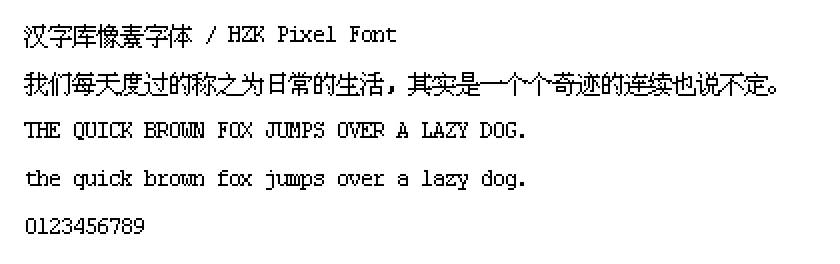
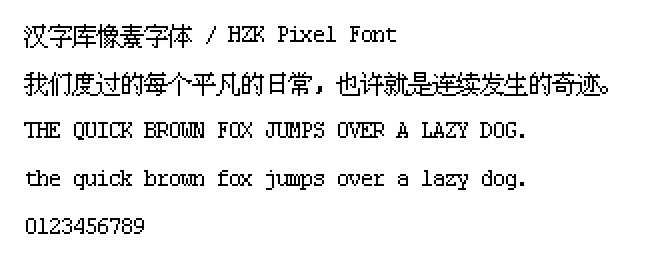
调整示例文案

diff --git a/services/image_service.py b/services/image_service.py
@@ -13,10 +13,10 @@ def make_preview_image_file(font_config: FontConfig):
     font = ImageFont.truetype(os.path.join(path_define.outputs_dir, f'{font_config.outputs_name}.woff2'), font_config.size)
     text_color = (0, 0, 0, 255)
 
-    image = Image.new('RGBA', (font_config.size * 35, font_config.size * 11), (255, 255, 255, 255))
+    image = Image.new('RGBA', (font_config.size * 27, font_config.size * 11), (255, 255, 255, 255))
     draw = ImageDraw.Draw(image)
     draw.text((font_config.size, font_config.size), '汉字库像素字体 / HZK Pixel Font', fill=text_color, font=font)
-    draw.text((font_config.size, font_config.size * 3), '我们每天度过的称之为日常的生活，其实是一个个奇迹的连续也说不定。', fill=text_color, font=font)
+    draw.text((font_config.size, font_config.size * 3), '我们度过的每个平凡的日常，也许就是连续发生的奇迹。', fill=text_color, font=font)
     draw.text((font_config.size, font_config.size * 5), 'THE QUICK BROWN FOX JUMPS OVER A LAZY DOG.', fill=text_color, font=font)
     draw.text((font_config.size, font_config.size * 7), 'the quick brown fox jumps over a lazy dog.', fill=text_color, font=font)
     draw.text((font_config.size, font_config.size * 9), '0123456789', fill=text_color, font=font)
